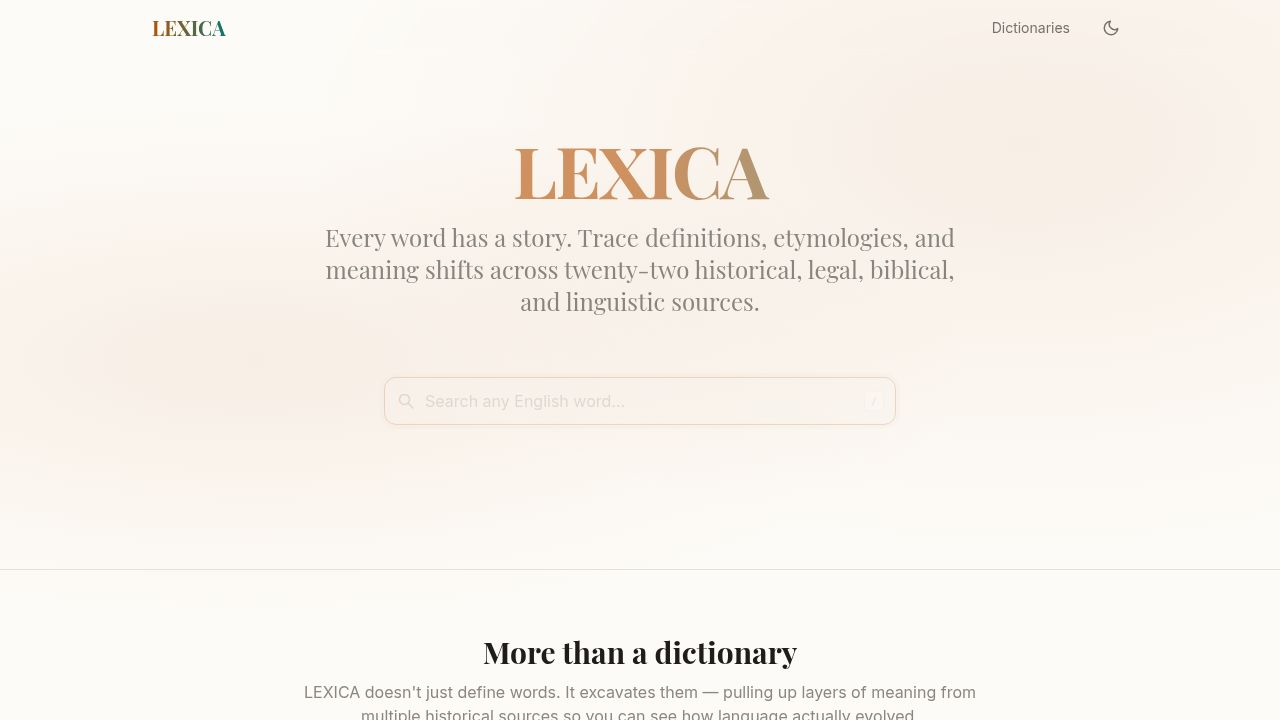
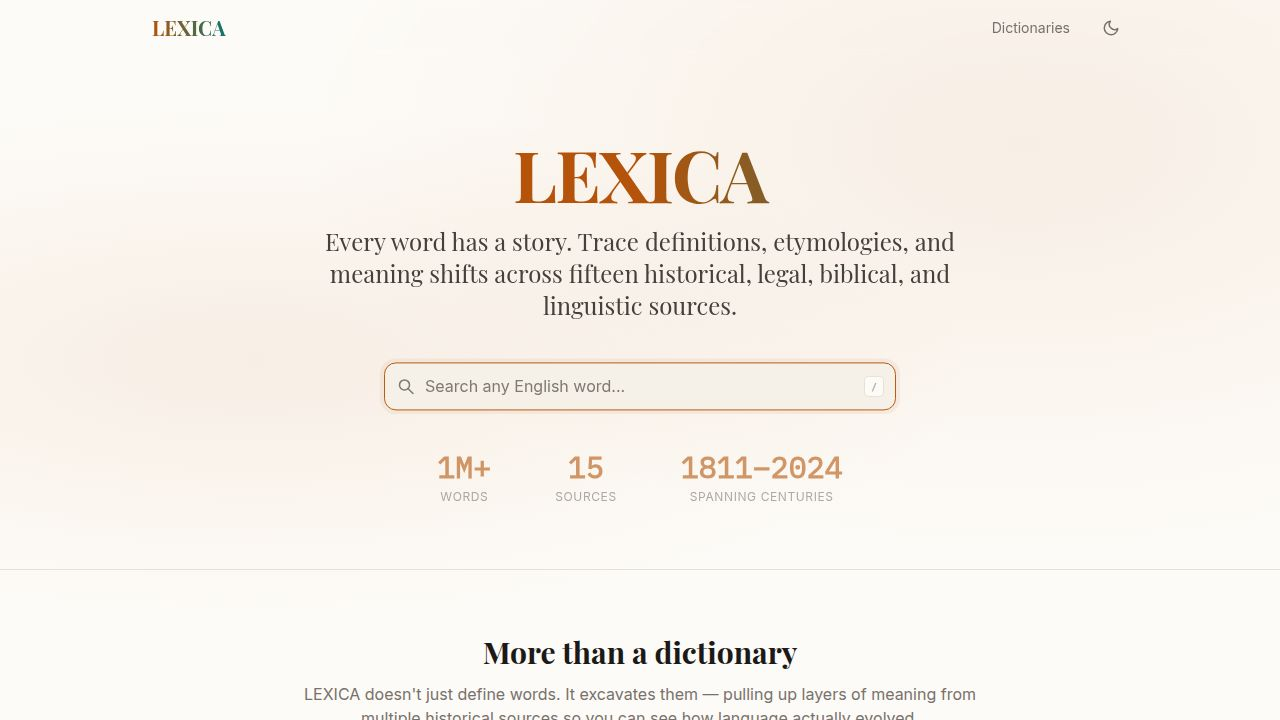
Improve application stability and performance by switching to Turbopack
Updates configuration to utilize Turbopack for development builds, enhancing memory efficiency and build times. Adjusts source count in UI and removes deprecated webpack configuration.

Replit-Commit-Author: Agent
Replit-Commit-Session-Id: d16ad1de-a897-4017-b753-66c246c18ce1
Replit-Commit-Checkpoint-Type: full_checkpoint
Replit-Commit-Event-Id: 8aec1c72-8d88-4093-9e96-ac5146b89dfa
Replit-Commit-Screenshot-Url: https://storage.googleapis.com/screenshot-production-us-central1/d2f19752-622b-4bb3-8b14-d05366b2a389/d16ad1de-a897-4017-b753-66c246c18ce1/LbLs0NQ
Replit-Helium-Checkpoint-Created: true

diff --git a/app/page.tsx b/app/page.tsx
@@ -17,7 +17,7 @@ const FEATURED_WORDS = [
 
 const STATS = [
   { value: "1M+", label: "Words" },
-  { value: "22", label: "Sources" },
+  { value: "15", label: "Sources" },
   { value: "1811\u20132024", label: "Spanning Centuries" },
 ];
 
@@ -63,7 +63,7 @@ export default function Home() {
             </h1>
             <p className="font-serif text-xl md:text-2xl text-text-secondary max-w-2xl mx-auto leading-relaxed">
               Every word has a story. Trace definitions, etymologies, and meaning shifts
-              across twenty-two historical, legal, biblical, and linguistic sources.
+              across fifteen historical, legal, biblical, and linguistic sources.
             </p>
           </motion.div>
 
@@ -123,7 +123,7 @@ export default function Home() {
                   ),
                 },
                 {
-                  title: "22 Sources",
+                  title: "15 Sources",
                   desc: "Compare definitions across centuries from dictionaries, thesauri, biblical concordances, and linguistic databases.",
                   icon: (
                     <svg width="32" height="32" viewBox="0 0 24 24" fill="none" stroke="var(--accent)" strokeWidth="1.5" strokeLinecap="round" strokeLinejoin="round">
@@ -235,7 +235,7 @@ export default function Home() {
               { name: "Strong\u2019s Concordance", year: "1890", desc: "Hebrew & Greek roots" },
               { name: "Easton\u2019s Bible Dict.", year: "1897", desc: "Biblical terms & places" },
               { name: "Hitchcock\u2019s Names", year: "1869", desc: "Bible name meanings" },
-              { name: "Nave\u2019s Topical Bible", year: "1896", desc: "5,000+ biblical topics" },
+              { name: "Nave\u2019s Topical Bible", year: "1896", desc: "7,000+ biblical topics" },
               // Historical
               { name: "Hobson-Jobson", year: "1886", desc: "Anglo-Indian words" },
               { name: "1811 Vulgar Tongue", year: "1811", desc: "Georgian era slang" },

diff --git a/next.config.js b/next.config.js
@@ -9,14 +9,6 @@ const nextConfig = {
     '*.worf.replit.dev',
     '*.repl.co',
   ],
-  webpack: (config, { dev }) => {
-    if (dev) {
-      // Use memory cache to avoid stale filesystem cache corruption
-      // when files change mid-session (e.g. from external edits).
-      config.cache = { type: 'memory' };
-    }
-    return config;
-  },
 };
 
 module.exports = nextConfig;
